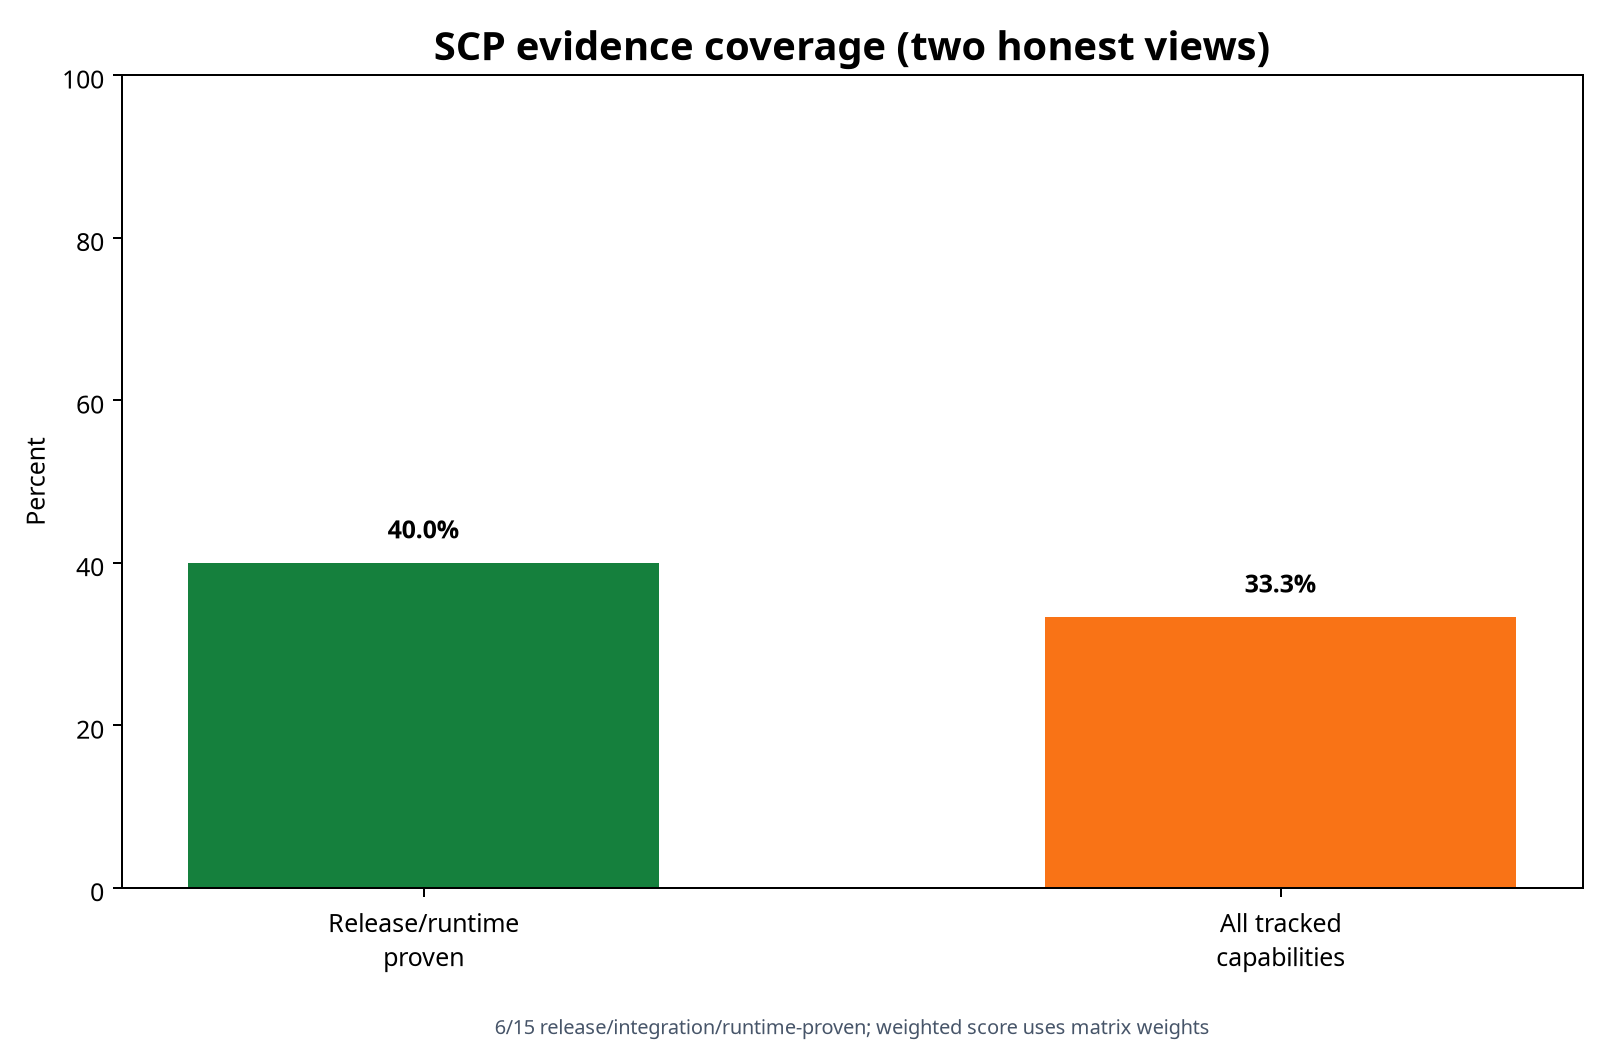
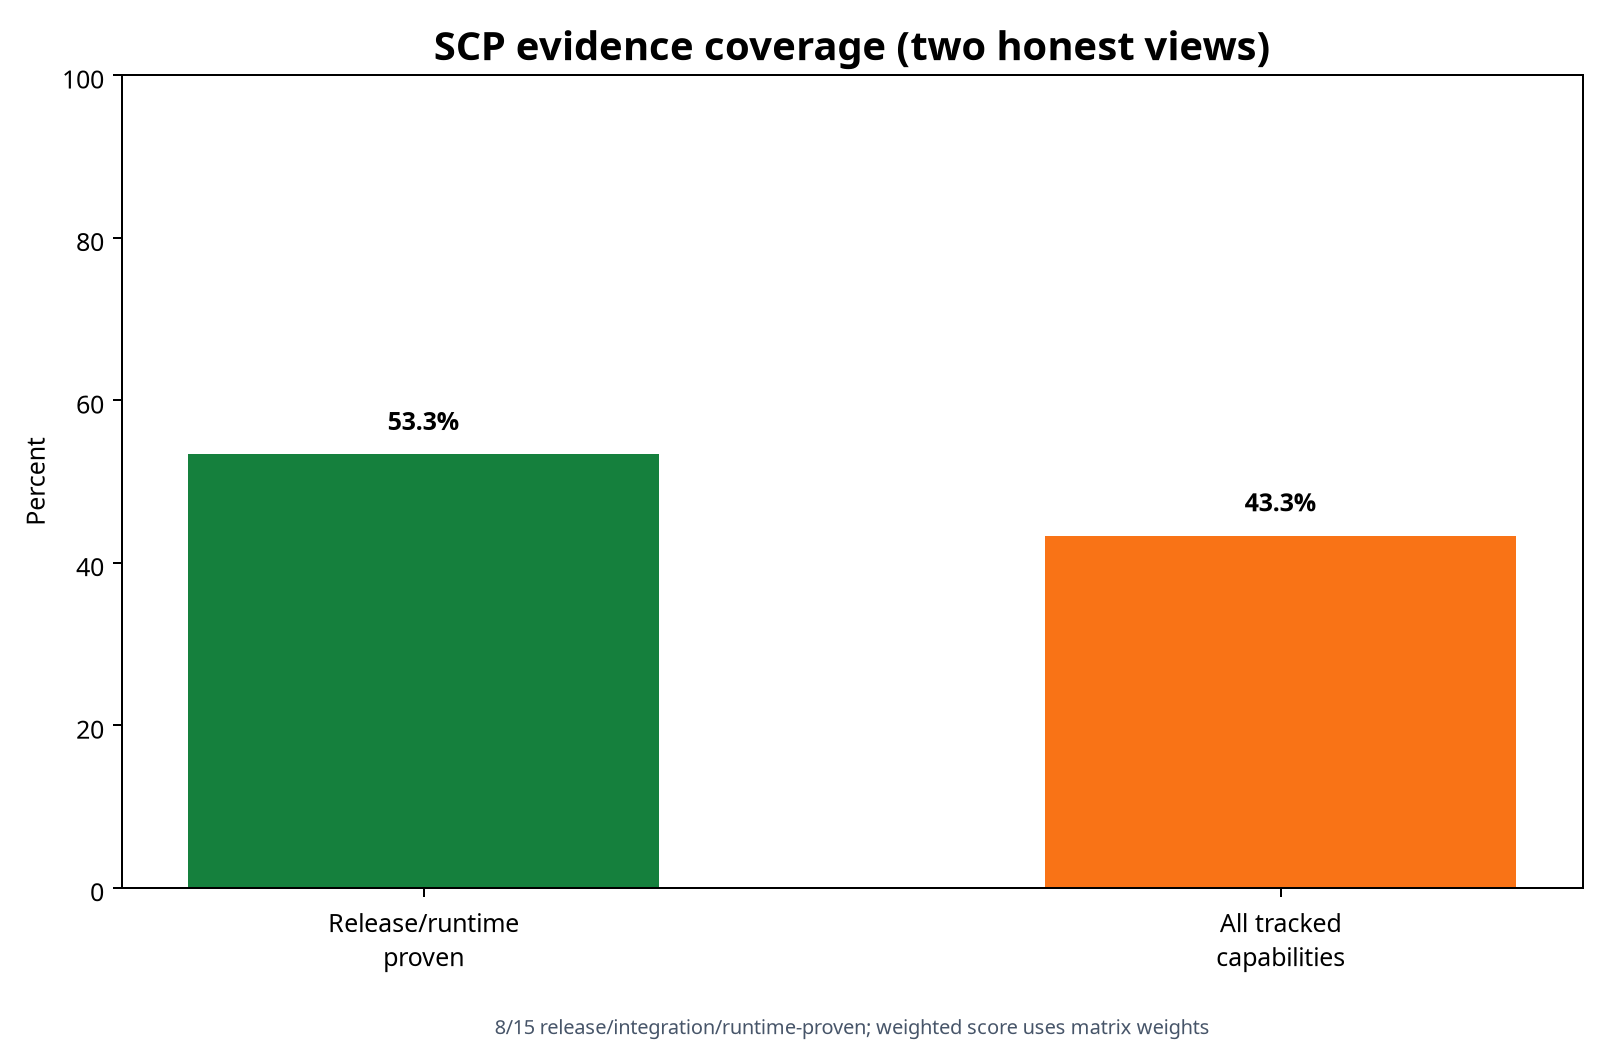
docs: refresh evidence matrix and codegraph snapshot

Changed region(s): [[0.0938, 0.3743, 0.4375, 0.5302], [0.6562, 0.4679, 0.9688, 0.5926]]

diff --git a/reports/CODEGRAPH_FEATURE_COMPLETION_V2.md b/reports/CODEGRAPH_FEATURE_COMPLETION_V2.md
@@ -1,6 +1,6 @@
 # SCP codegraph và mức hoàn thiện theo bằng chứng
 
-**Snapshot mã nguồn được phân tích:** `cd3b97c22d1b3731f987a0c4a1427f2762262eb1`. Đây là báo cáo về evidence maturity, không phải tỷ lệ số dòng code đã viết.
+**Snapshot mã nguồn được phân tích:** `4426a38c32b938d70340c2a7d3b9d200500d17a8`. Đây là báo cáo về evidence maturity, không phải tỷ lệ số dòng code đã viết.
 
 ## Codegraph
 
@@ -8,11 +8,11 @@ Codegraph được tạo bằng AST từ thư mục `scp/`. Graph ghi lại modu
 
 ![Nodes by segment](codegraph_20260826/nodes_by_segment.png)
 
-Có **451 nodes** và **849 internal import edges**. Bảy phân khúc lớn nhất là `autofix` 72, `data_sources` 68, `core` 59, `runtime` 56, `meta` 51, `security` 34 và `api` 25. Các phân khúc lớn phản ánh phạm vi mã nguồn, không tự chứng minh chất lượng hoặc mức tích hợp runtime.
+Có **452 nodes** và **850 internal import edges**. Bảy phân khúc lớn nhất là `autofix` 72, `data_sources` 68, `core` 59, `runtime` 56, `meta` 51, `security` 35 và `api` 25. Các phân khúc lớn phản ánh phạm vi mã nguồn, không tự chứng minh chất lượng hoặc mức tích hợp runtime.
 
 ## Tỷ lệ hoàn thiện theo evidence maturity
 
-Ma trận theo dõi 15 capability cấp hệ thống. Sáu capability đã có bằng chứng release/integration/runtime trong phạm vi hiện tại, tương đương **40,0%**. Nếu chỉ tính runtime-proven tuyệt đối thì có **2/15 = 13,3%**. Một điểm nhìn có trọng số, trong đó integration/release được tính 0,75 và static-only là 0,5, cho kết quả **33,3%**.
+Ma trận theo dõi 15 capability cấp hệ thống. Tám capability đã có bằng chứng release/integration/runtime trong phạm vi hiện tại, tương đương **53,3%**. Nếu chỉ tính runtime-proven tuyệt đối thì có **2/15 = 13,3%**. Một điểm nhìn có trọng số, trong đó integration/release được tính 0,75 và static-only là 0,5, cho kết quả **43,3%**.
 
 ![Feature maturity counts](codegraph_20260826/feature_maturity_counts.png)
 
@@ -23,12 +23,12 @@ Ba số này không mâu thuẫn. Chúng trả lời ba câu hỏi khác nhau:
 | Cách tính | Kết quả | Ý nghĩa |
 |---|---:|---|
 | Runtime-proven tuyệt đối | 2/15 = 13,3% | Chỉ những capability có runtime evidence trực tiếp |
-| Release/integration/runtime-proven | 6/15 = 40,0% | Có test tích hợp/release evidence, nhưng không phải tất cả là runtime E2E |
-| Weighted evidence score | 33,3% | Điểm quy đổi để nhìn mức trưởng thành, không phải accuracy |
+| Release/integration/runtime-proven | 8/15 = 53,3% | Có test tích hợp/release evidence, nhưng không phải tất cả là runtime E2E |
+| Weighted evidence score | 43,3% | Điểm quy đổi để nhìn mức trưởng thành, không phải accuracy |
 
 ## Những phần chưa hoàn thiện
 
-Các capability còn `UNPROVEN` hoặc `BLOCKED` không có nghĩa là không có file code. Nó nghĩa là chưa có postcondition độc lập chứng minh đúng ở tầng cần claim. Các vùng còn thiếu gồm connector side-effect gọi `record_action_dispatched()` và reconcile thật; capability revoke xuyên tool layer; fairness/quota/deadline của queue; timeout/recovery với provider thật; chuỗi golden task planner → policy → tool → observation → verifier → audit; 50 factual Gold rows đã human-review; official Ragas score; ARES score; và full 1.000-question factual RAG.
+Các capability còn `UNPROVEN` hoặc `BLOCKED` không có nghĩa là không có file code. Nó nghĩa là chưa có postcondition độc lập chứng minh đúng ở tầng cần claim. Capability revoke tại Hands API boundary và safe golden-task chain nay đã có integration proof, nhưng vẫn không đại diện cho toàn bộ connector/tool layer hoặc side-effect thật. Các vùng còn thiếu gồm connector side-effect gọi `record_action_dispatched()` và reconcile thật; fairness/quota/deadline của queue; timeout/recovery với provider thật; 50 factual Gold rows đã human-review; official Ragas score; ARES score; và full 1.000-question factual RAG.
 
 Ragas là thư viện đánh giá, không phải corpus Gold; hàm `evaluate()` nhận dataset, metrics và tùy chọn LLM/embeddings [1] [2]. BEIR là benchmark retrieval công khai và KILT là benchmark knowledge-intensive có corpus/task/provenance riêng [3] [4]. Vì vậy SCP phải giữ external benchmark lane và in-domain Vietnamese Gold lane tách biệt.
 
